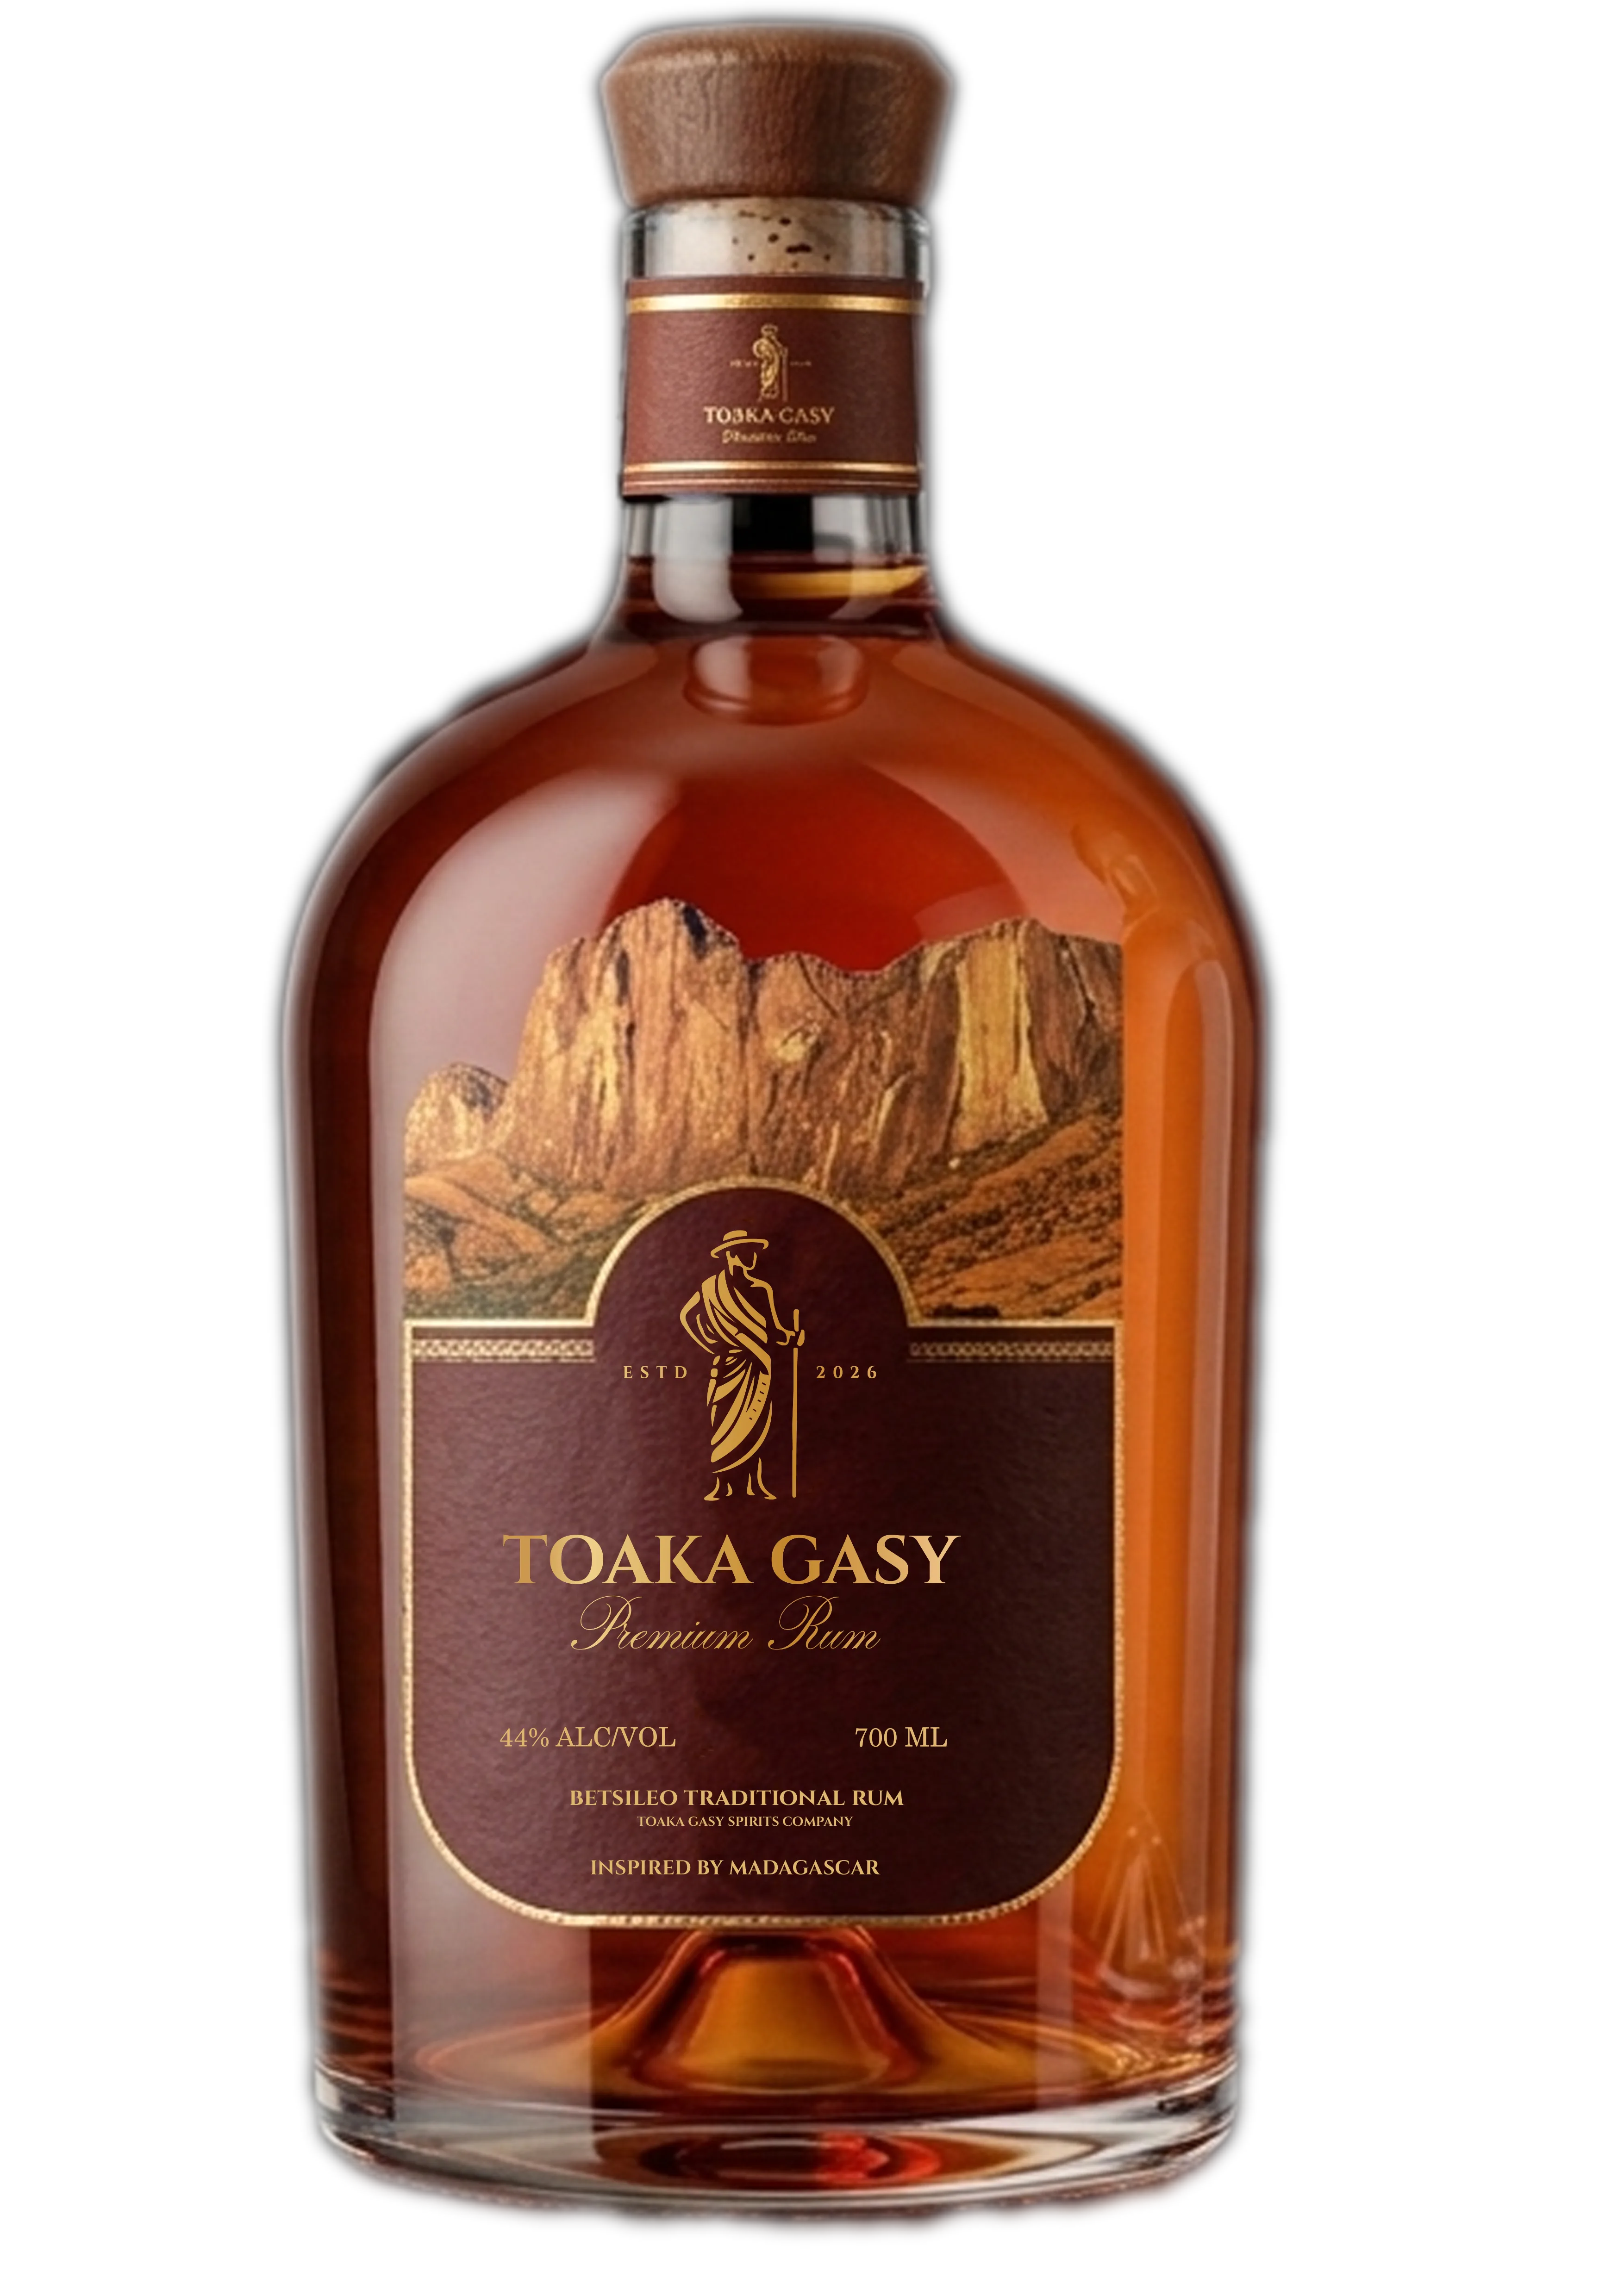
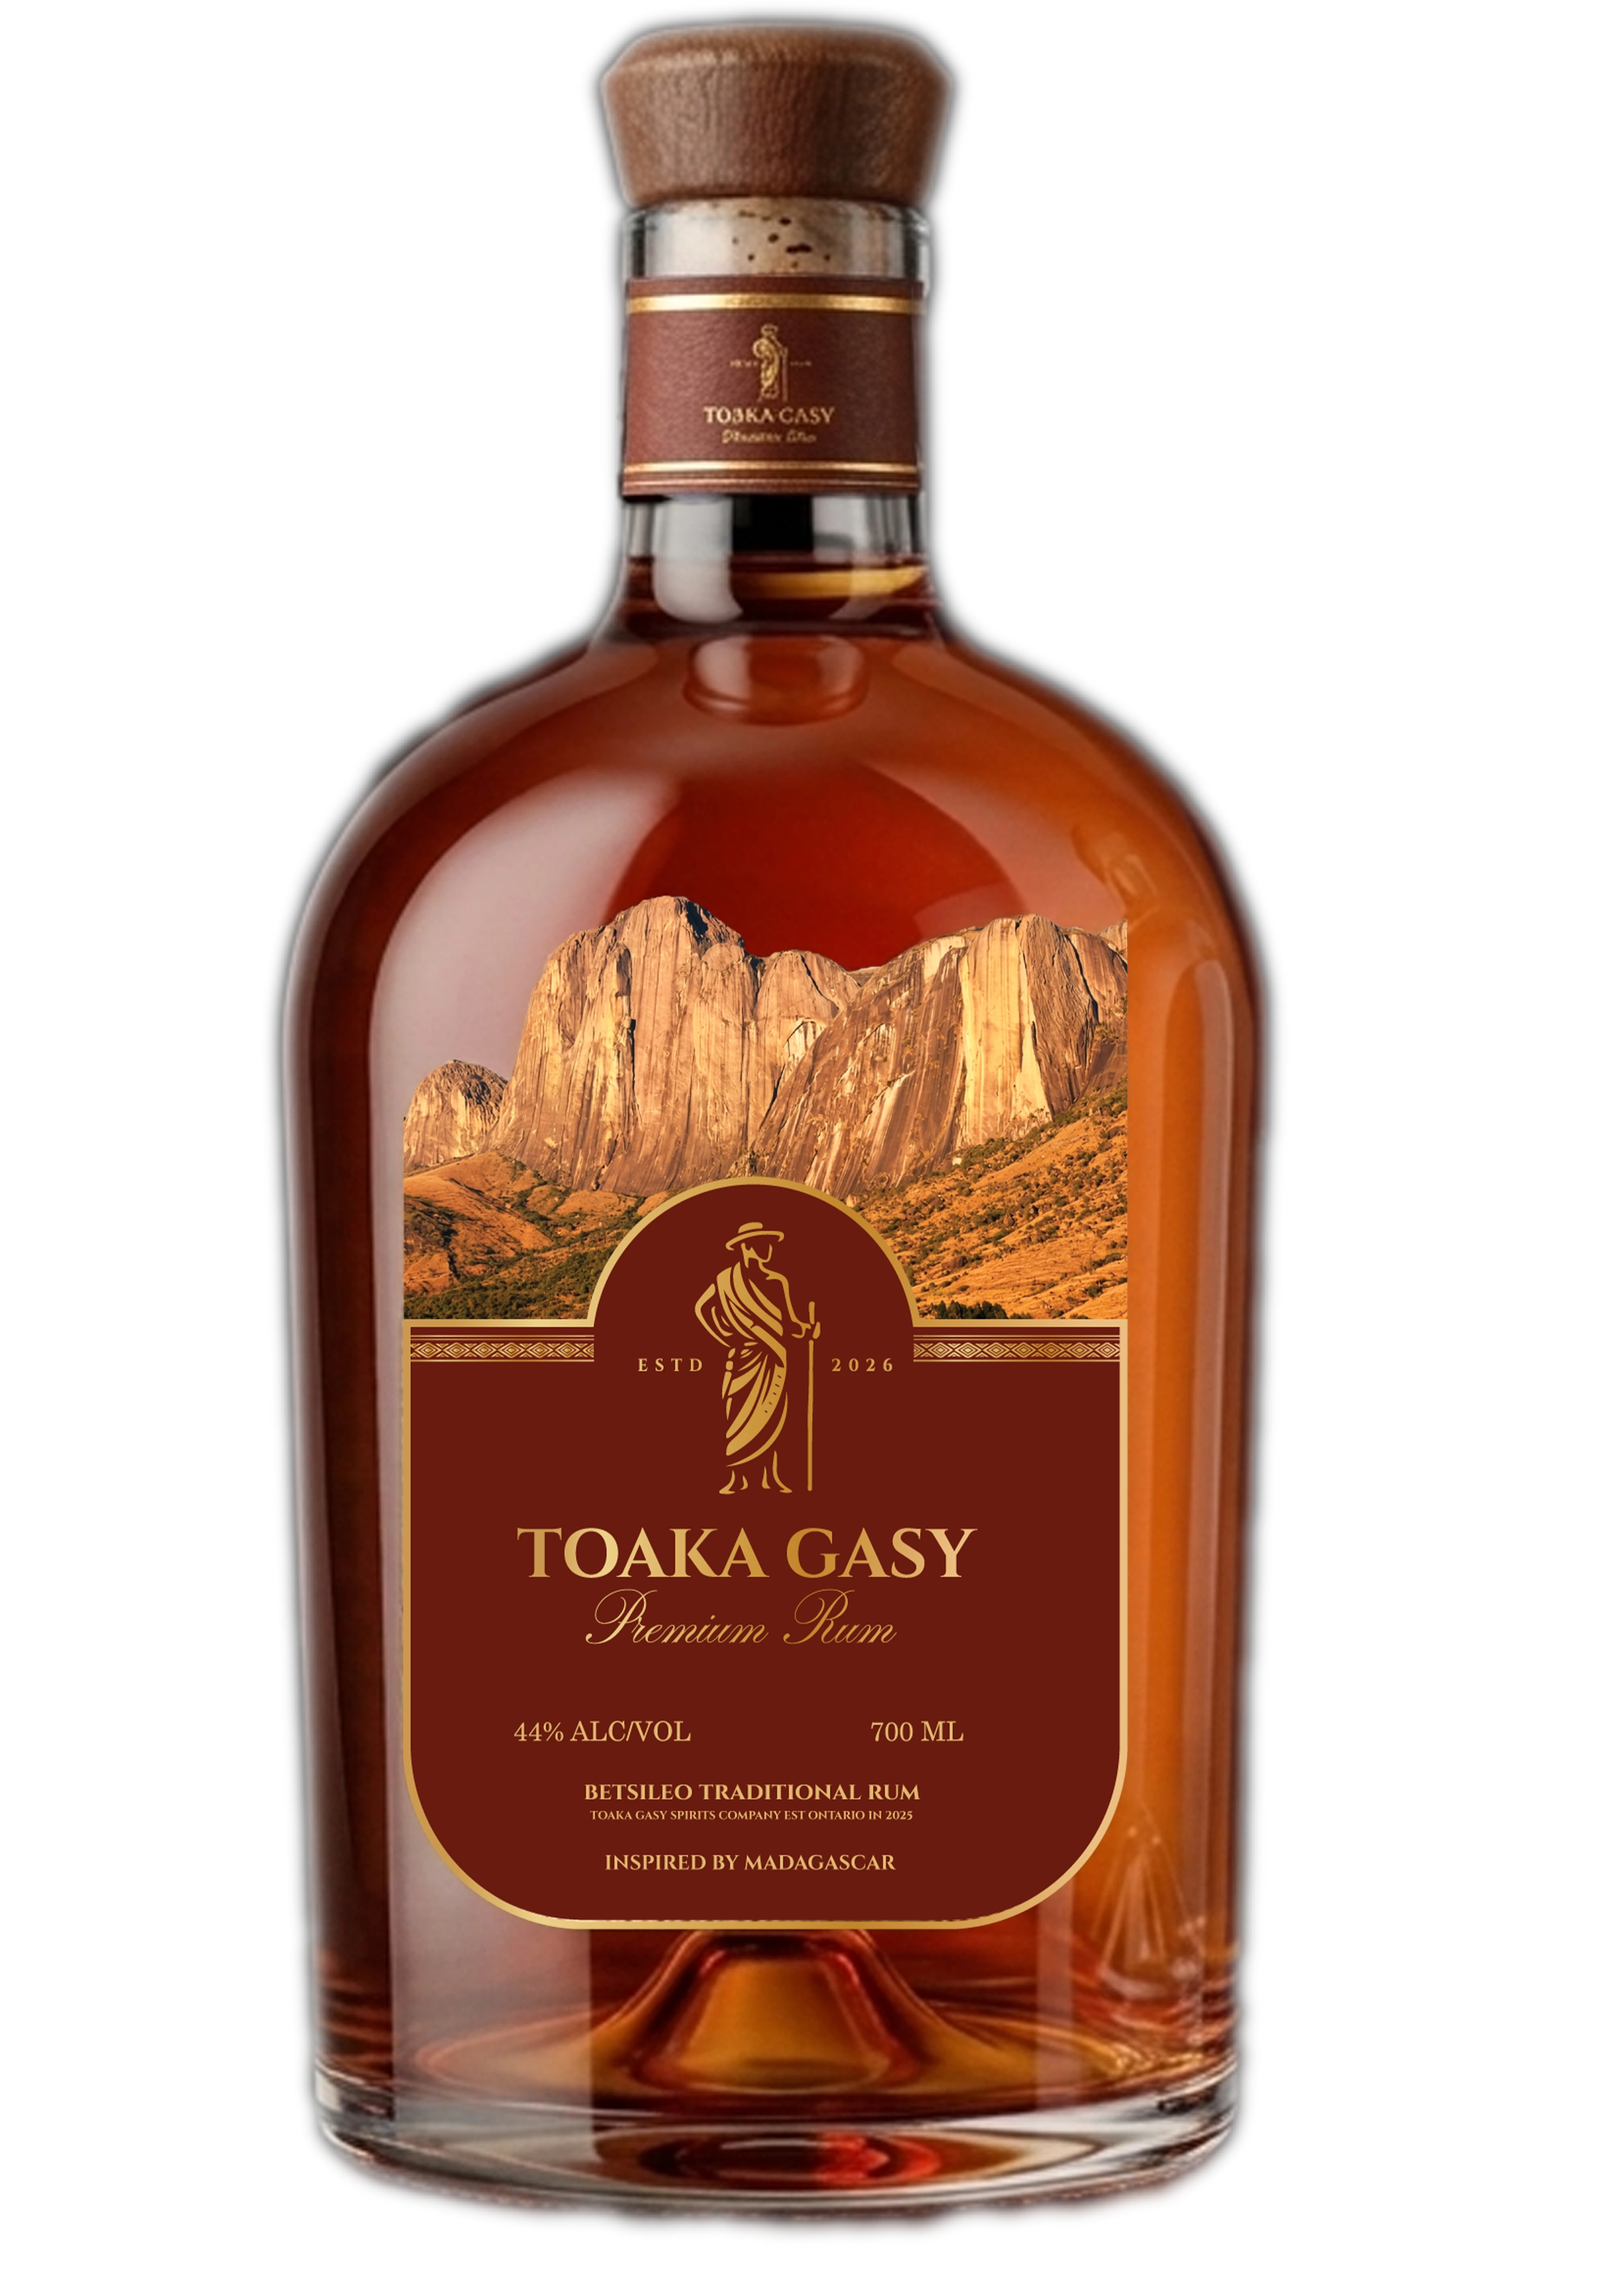
update bouteille

Changed region(s): [[0.2486, 0.3749, 0.7147, 0.8436]]

diff --git a/src/styles/home.css b/src/styles/home.css
@@ -901,23 +901,48 @@
   background: #fff;
 }
 
-/* ─── Polices harmonisées pour 400px de hauteur ─── */
-.home-s46 .s4-panel__content {
-  bottom: 1.5rem;
+/* ─── Alignement uniforme titre/description rum & cocktail ─── */
+.home-s46 .s4-panel__content,
+.home-s46 .s6-content {
+  bottom: 1.75rem;
   left: 50%;
   right: auto;
-  transform: translateX(-50%);
   width: 90%;
-  text-align: center;
+  max-width: 90%;
+  height: auto;
+  transform: translateX(-50%);
+  display: flex;
+  flex-direction: column;
   align-items: center;
+  text-align: center;
+  padding: 0;
+  gap: 0.4rem;
 }
-.home-s46 .s4-panel__title   { font-size: clamp(20px, 1.6vw, 23px); }
-.home-s46 .s4-panel__tagline { font-size: clamp(15px, 0.95vw, 14px); }
-.home-s46 .s4-panel__cta     { font-size: 12px; margin-top: 0.25rem; }
-
-.home-s46 .s6-content  { bottom: 1.5rem; }
+.home-s46 .s4-panel__title,
 .home-s46 .s6-title    { font-size: clamp(20px, 1.6vw, 23px); }
-.home-s46 .s6-subtitle { font-size: clamp(15px, 0.95vw, 14px); }
+.home-s46 .s4-panel__tagline,
+.home-s46 .s6-subtitle { font-size: clamp(13px, 0.95vw, 14px); }
+
+/* ─── Flèche droite sur hover (hors flux) ─── */
+.s46-rum-arrow {
+  position: absolute;
+  right: 1.25rem;
+  bottom: 1.75rem;
+  z-index: 3;
+  color: #ECD8C4;
+  opacity: 0;
+  transform: translateX(-6px);
+  transition: opacity 0.3s ease, transform 0.3s ease;
+  display: flex;
+  align-items: center;
+  pointer-events: none;
+}
+
+.s46-slide--rum:hover .s46-rum-arrow,
+.s46-slide--rum:focus-visible .s46-rum-arrow {
+  opacity: 1;
+  transform: translateX(0);
+}
 
 .s46-track {
   display: flex;
@@ -952,8 +977,6 @@
 .s46-slide--rum:hover .s4-panel__img,
 .s46-slide--rum:focus-visible .s4-panel__img { transform: scale(1.1); }
 
-.s46-slide--rum:hover .s4-panel__cta,
-.s46-slide--rum:focus-visible .s4-panel__cta { opacity: 1; transform: translateY(0); }
 
 /* ─── Cocktail slide : texte reveal à l'activation ─── */
 .s46-slide--cocktail .s6-title,
@@ -992,17 +1015,14 @@
   .s46-slide + .s46-slide  { border-left: none; }
   .s46-nav--left           { left:  0.75rem; }
   .s46-nav--right          { right: 0.75rem; color: #6F380E; }
-  .home-s46 .s6-content    { bottom: 2rem; }
-  .home-s46 .s4-panel__title  { font-size: clamp(17px, 4.5vw, 23px); }
+  .home-s46 .s4-panel__title,
   .home-s46 .s6-title         { font-size: clamp(17px, 4.5vw, 23px); }
   .home-s46 .s4-panel__tagline,
   .home-s46 .s6-subtitle      { font-size: 13px; }
 }
 
 @media (max-width: 575.98px) {
-  .home-s46               { height: 320px; }
-  .home-s46 .s6-content   { bottom: 1.25rem; width: 95%; }
-  .home-s46 .s4-panel__cta { opacity: 1; transform: none; }
+  .home-s46 { height: 320px; }
 }
 
 /* ════════════════════════════════════════

diff --git a/src/views/HomeView.vue b/src/views/HomeView.vue
@@ -193,7 +193,7 @@ const parallax = computed(() => {
       <img src="/img/montagne.webp" class="home-mountain" alt="" aria-hidden="true" />
       <section class="home-scene" aria-label="Scène Toaka Gasy">
         <div class="scene-pos scene-pos--bottle" :style="{ transform: parallax.bottle }">
-          <img src="/img/toaka-gasy-mainty.webp" alt="Toaka Gasy" />
+          <img src="/img/toaka-gasy-black.webp" alt="Toaka Gasy" />
         </div>
         <div class="bottle-shadow" aria-hidden="true"></div>
       </section>
@@ -250,10 +250,10 @@ const parallax = computed(() => {
         <div class="s4-panel__content">
           <h2 class="s4-panel__title">{{ products[0].name }}</h2>
           <p class="s4-panel__tagline">{{ products[0].tagline }}</p>
-          <span class="s4-panel__cta"><span>DISCOVER MORE</span>
-            <svg width="18" height="18" viewBox="0 0 24 24" fill="none" stroke="currentColor" stroke-width="2" stroke-linecap="round" stroke-linejoin="round"><polyline points="6 9 12 15 18 9"/></svg>
-          </span>
         </div>
+        <span class="s46-rum-arrow" aria-hidden="true">
+          <svg width="20" height="20" viewBox="0 0 24 24" fill="none" stroke="currentColor" stroke-width="2" stroke-linecap="round" stroke-linejoin="round"><polyline points="9 18 15 12 9 6"/></svg>
+        </span>
       </button>
 
       <!-- Cocktail 1 -->
@@ -273,10 +273,10 @@ const parallax = computed(() => {
         <div class="s4-panel__content">
           <h2 class="s4-panel__title">{{ products[1].name }}</h2>
           <p class="s4-panel__tagline">{{ products[1].tagline }}</p>
-          <span class="s4-panel__cta"><span>DISCOVER MORE</span>
-            <svg width="18" height="18" viewBox="0 0 24 24" fill="none" stroke="currentColor" stroke-width="2" stroke-linecap="round" stroke-linejoin="round"><polyline points="6 9 12 15 18 9"/></svg>
-          </span>
         </div>
+        <span class="s46-rum-arrow" aria-hidden="true">
+          <svg width="20" height="20" viewBox="0 0 24 24" fill="none" stroke="currentColor" stroke-width="2" stroke-linecap="round" stroke-linejoin="round"><polyline points="9 18 15 12 9 6"/></svg>
+        </span>
       </button>
 
       <!-- Cocktail 2 -->
@@ -296,10 +296,10 @@ const parallax = computed(() => {
         <div class="s4-panel__content">
           <h2 class="s4-panel__title">{{ products[2].name }}</h2>
           <p class="s4-panel__tagline">{{ products[2].tagline }}</p>
-          <span class="s4-panel__cta"><span>DISCOVER MORE</span>
-            <svg width="18" height="18" viewBox="0 0 24 24" fill="none" stroke="currentColor" stroke-width="2" stroke-linecap="round" stroke-linejoin="round"><polyline points="6 9 12 15 18 9"/></svg>
-          </span>
         </div>
+        <span class="s46-rum-arrow" aria-hidden="true">
+          <svg width="20" height="20" viewBox="0 0 24 24" fill="none" stroke="currentColor" stroke-width="2" stroke-linecap="round" stroke-linejoin="round"><polyline points="9 18 15 12 9 6"/></svg>
+        </span>
       </button>
 
       <!-- Cocktail 3 -->

diff --git a/src/styles/contact.css b/src/styles/contact.css
@@ -186,7 +186,7 @@
   font-family: var(--font-cinzel);
   font-weight: 700;
   font-size: clamp(1.3rem, 2.8vw, 2rem);
-  color: #3a2e22;
+  color: #69431D;
   text-align: center;
   letter-spacing: 0.18em;
 }
@@ -221,7 +221,7 @@
   background: transparent;
   border: none;
   border-bottom: 1.5px solid rgba(58, 46, 34, 0.35);
-  color: #3a2e22;
+  color: #69431D;
   font-family: var(--font-simonetta);
   font-weight: 400;
   font-size: clamp(0.9rem, 1.3vw, 1.05rem);
@@ -245,7 +245,7 @@
 
 .contact-form__input:-webkit-autofill {
   -webkit-box-shadow: 0 0 0 1000px #f3e6d8 inset;
-  -webkit-text-fill-color: #3a2e22;
+  -webkit-text-fill-color: #69431D;
   transition: background-color 5000s ease-in-out 0s;
 }
 
@@ -271,7 +271,7 @@
 
 /* ─── Submit Button ─── */
 .contact-form__submit {
-  background-color: #3a2e22;
+  background-color: #69431D;
   color: #ffffff;
   font-family: var(--font-cinzel);
   font-weight: 700;
@@ -364,7 +364,7 @@
   font-family: var(--font-cinzel);
   font-weight: 700;
   font-size: 1rem;
-  color: #3a2e22;
+  color: #69431D;
   letter-spacing: 0.1em;
   text-transform: uppercase;
   margin-bottom: 0.6rem;
@@ -385,7 +385,7 @@
   font-size: 0.8rem;
   letter-spacing: 0.1em;
   color: #ffffff;
-  background: #3a2e22;
+  background: #69431D;
   border: none;
   border-radius: 50px;
   padding: 0.5rem 2rem;

diff --git a/src/views/OurStoryView.vue b/src/views/OurStoryView.vue
@@ -94,7 +94,7 @@ const parallaxRed   = computed(() => ({ transform: `translateY(${-p.value * 38}p
       <div class="os-hero__pos os-hero__pos--left">
         <div :style="parallaxBlack">
           <img
-            src="/img/toaka-gasy-mainty.webp"
+            src="/img/toaka-gasy-black.webp"
             class="os-hero__bottle os-hero__bottle--black"
             :class="{ 'os-hero__bottle--in': animated }"
             alt="Toaka Gasy Black"
@@ -176,7 +176,7 @@ const parallaxRed   = computed(() => ({ transform: `translateY(${-p.value * 38}p
       <h2 class="os-s4__title">THE BEGINNING</h2>
       <div class="os-s4__line"></div>
       <p class="os-s4__body">
-        Our vision is to redefine the alcohol lifestyle by creating products that evoke emotion
+        Our vision is to redefine the alcohol lifestyle <br /> by creating products that evoke emotion
         and bring people together. Inspired by the energy of rhythm, culture, and festivity,
         we see every bottle as a symbol of celebration.
       </p>